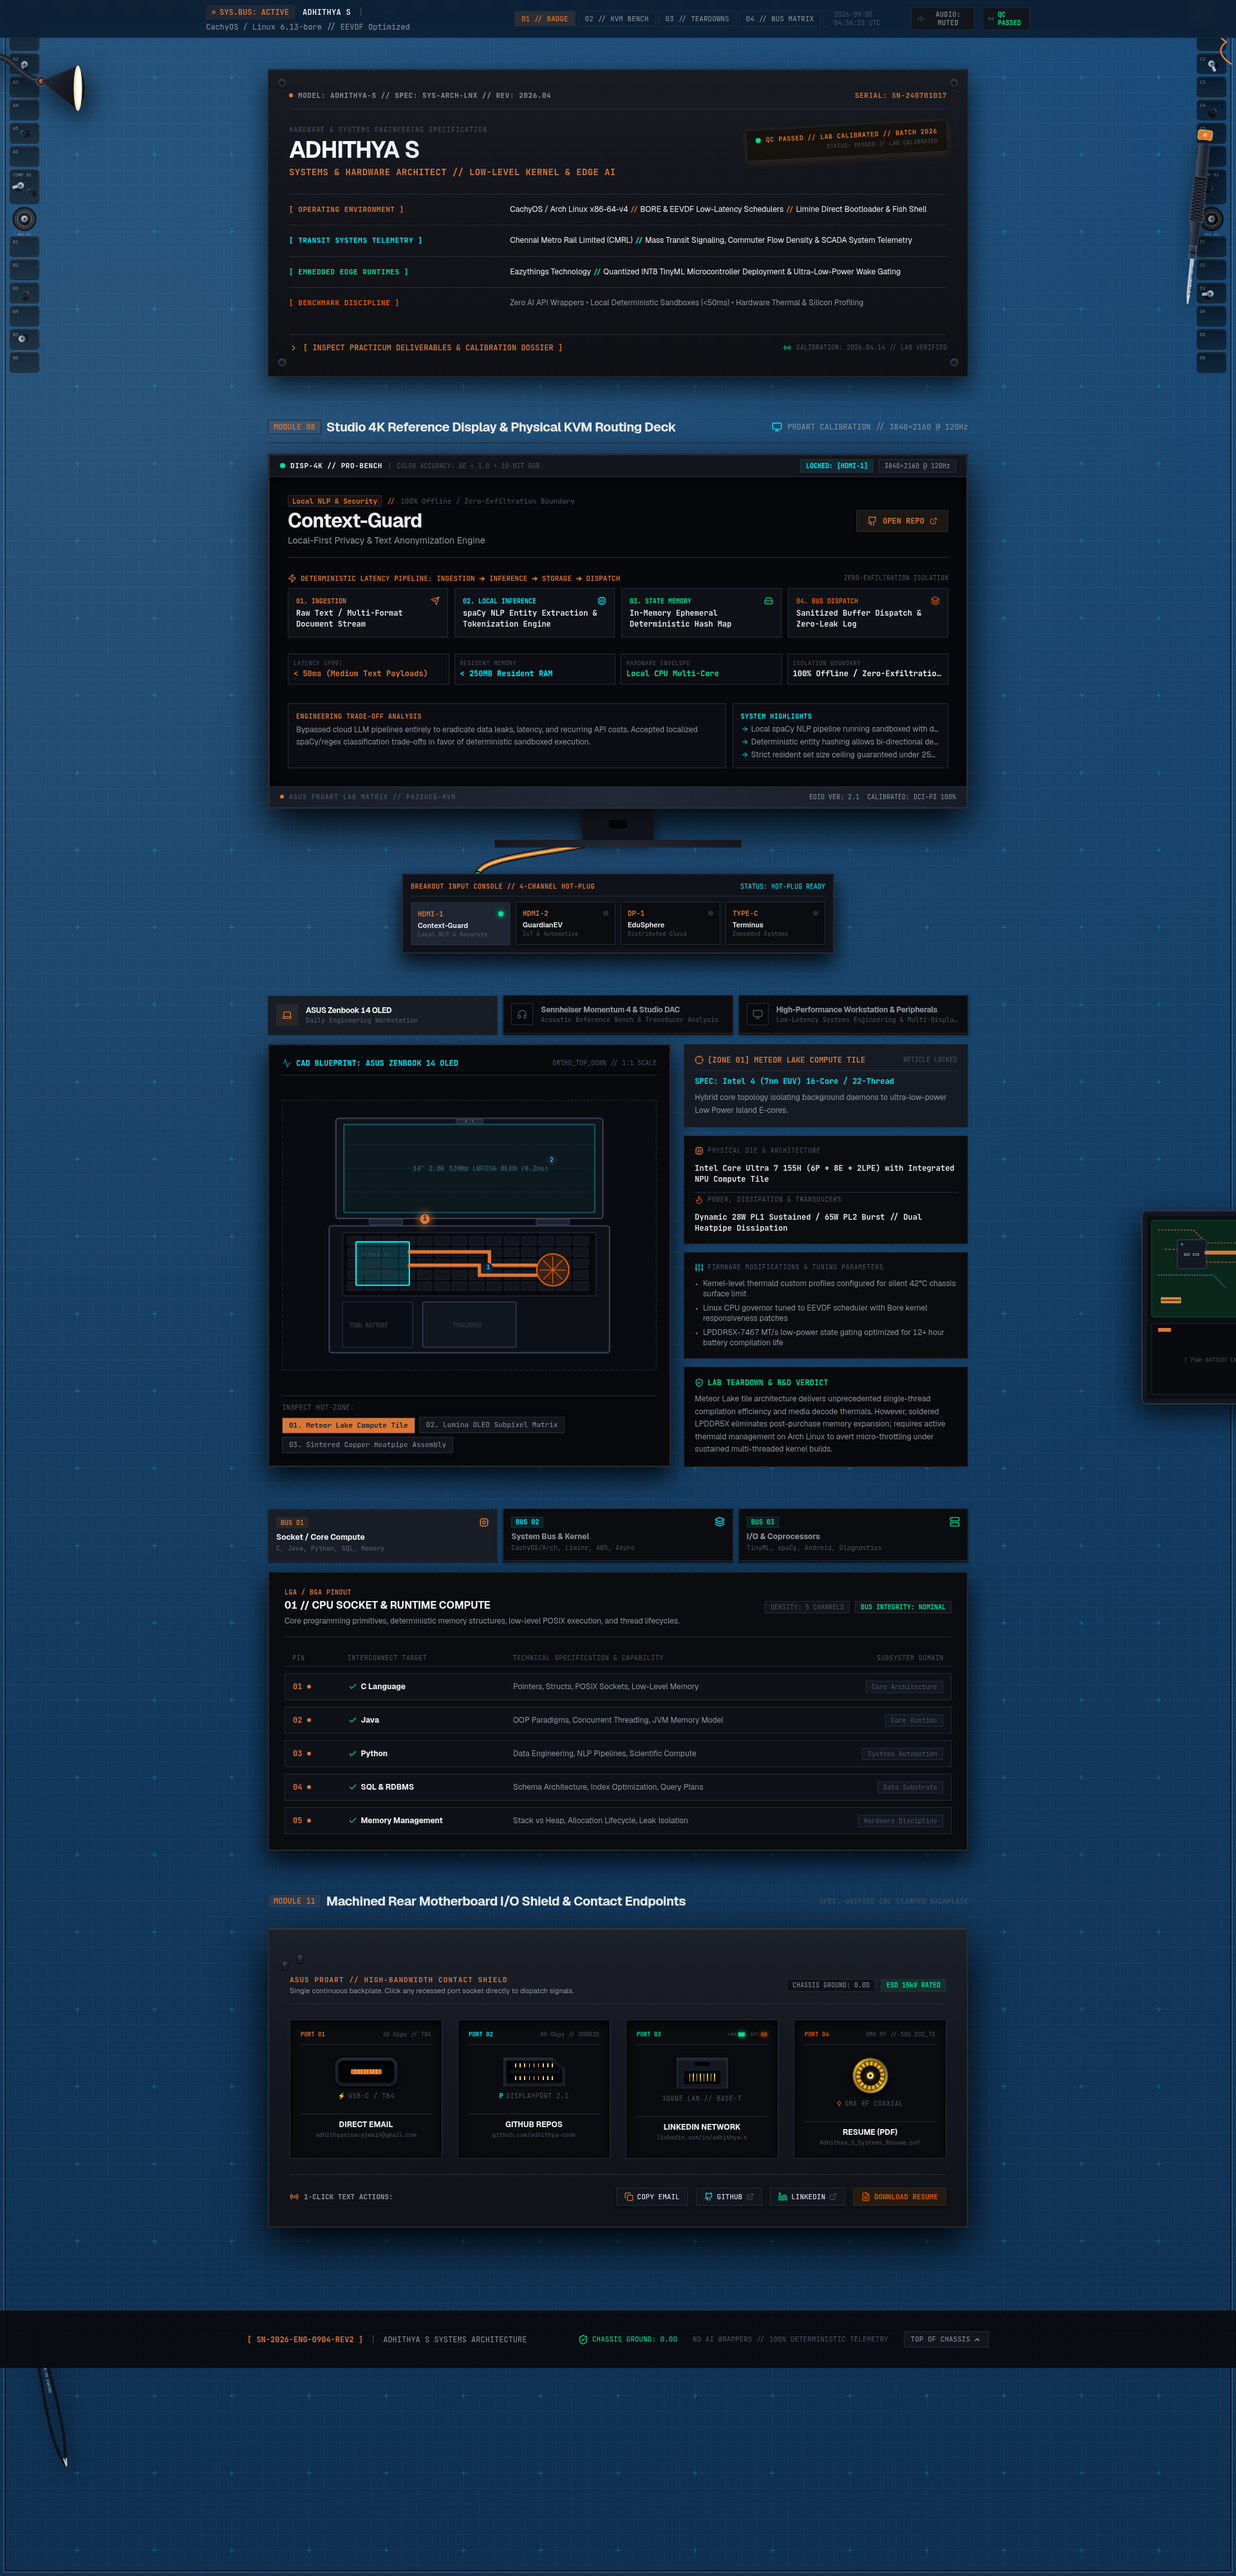
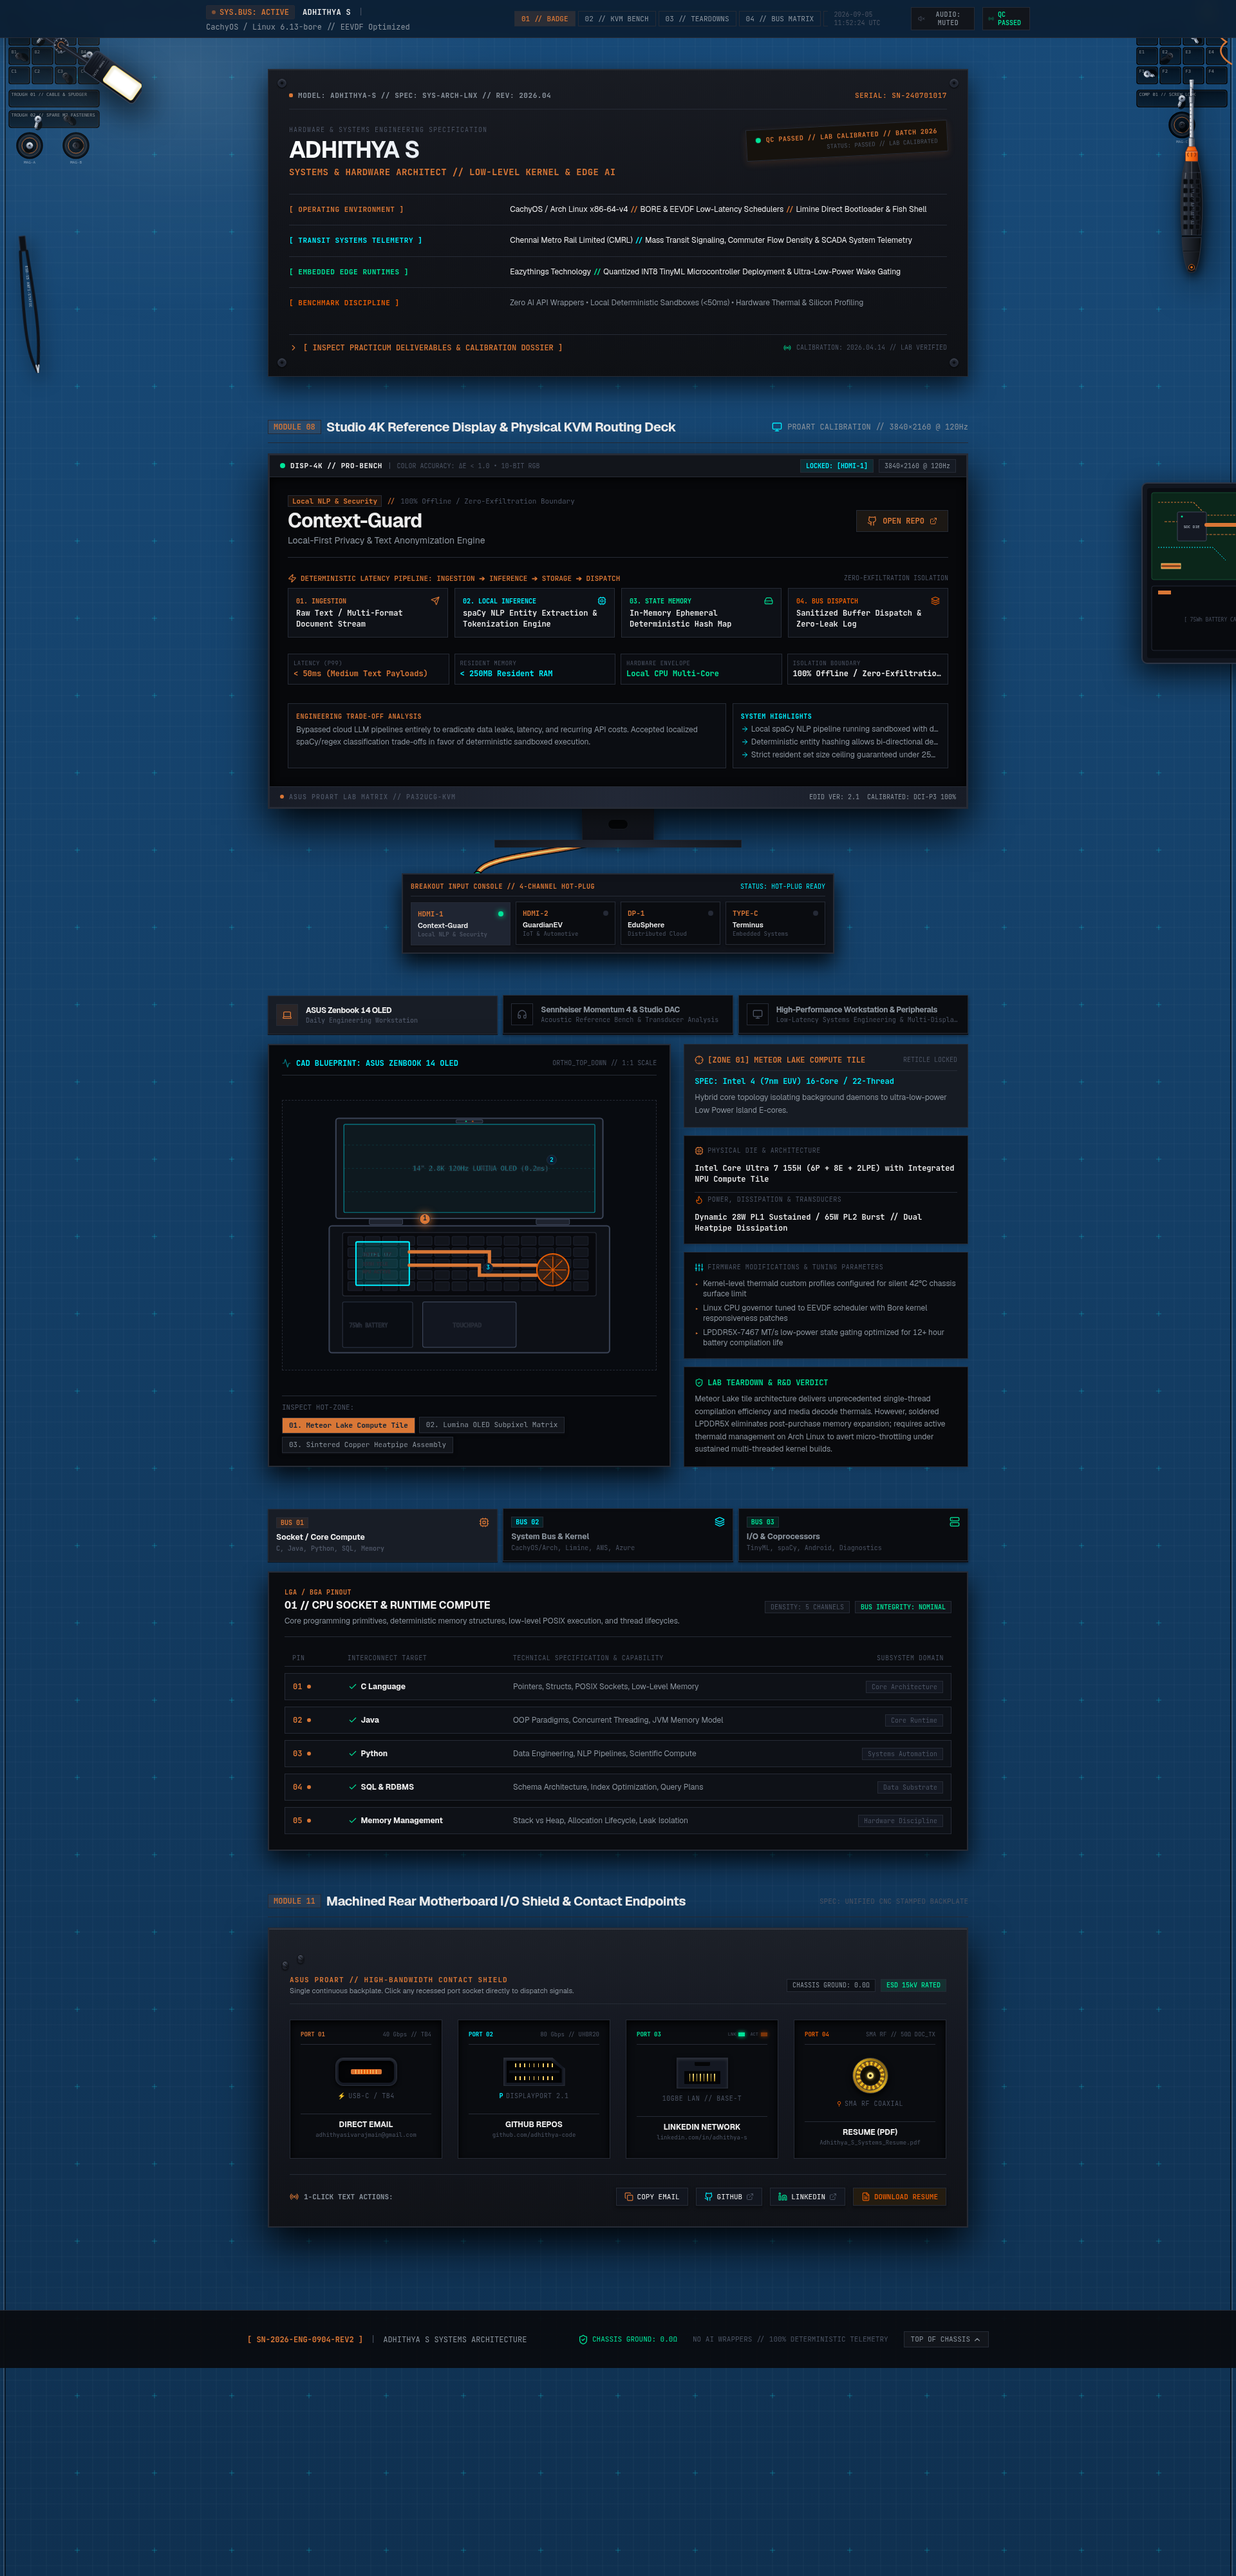
fix: make LTT screwdriver visible on desktop and laptop viewports

diff --git a/src/components/workbench/WorkbenchParallaxProps.tsx b/src/components/workbench/WorkbenchParallaxProps.tsx
@@ -19,7 +19,7 @@ export const WorkbenchParallaxProps: React.FC = () => {
           2. REALISTIC OVERHEAD TOP-DOWN TASK/BENCH LAMP (Top-Left Corner, Absolute)
          ========================================================================= */}
       <div
-        className="hidden xl:block absolute top-0 left-0 pointer-events-auto"
+        className="hidden md:block absolute top-0 left-0 pointer-events-auto"
         data-inspectable="true"
         data-inspect-label="OVERHEAD 5000K LED TASK LAMP // DIE-CAST ALUMINUM"
         style={{
@@ -135,7 +135,7 @@ export const WorkbenchParallaxProps: React.FC = () => {
       {/* =========================================================================
           3. 1:1 SCALE AUTHENTIC LTT SCREWDRIVER (Top-Right Flank, Absolute)
          ========================================================================= */}
-      <div className="hidden 2xl:block absolute top-[120px] right-7 pointer-events-auto z-20">
+      <div className="hidden lg:block absolute top-[120px] right-3 sm:right-6 xl:right-10 pointer-events-auto z-20">
         <LttScrewdriver />
       </div>
 
@@ -143,7 +143,7 @@ export const WorkbenchParallaxProps: React.FC = () => {
           4. ESD-15 CURVED TWEEZERS (Left Flank, Absolute)
          ========================================================================= */}
       <div
-        className="hidden 2xl:block absolute top-[360px] left-6 pointer-events-auto cursor-crosshair -rotate-6"
+        className="hidden lg:block absolute top-[360px] left-3 sm:left-6 pointer-events-auto cursor-crosshair -rotate-6"
         data-inspectable="true"
         data-inspect-label="ESD-15 CURVED ANTI-STATIC TWEEZERS"
         style={{
@@ -193,7 +193,7 @@ export const WorkbenchParallaxProps: React.FC = () => {
           5. DISASSEMBLED LAPTOP BOTTOM HALF-CHASSIS (Right Flank Mid-Page, Absolute)
          ========================================================================= */}
       <div
-        className="hidden 2xl:block absolute top-[740px] -right-16 pointer-events-auto"
+        className="hidden xl:block absolute top-[740px] -right-16 pointer-events-auto"
         data-inspectable="true"
         data-inspect-label="DISASSEMBLED CHASSIS // COPPER HEATPIPE & MOTHERBOARD"
         style={{
